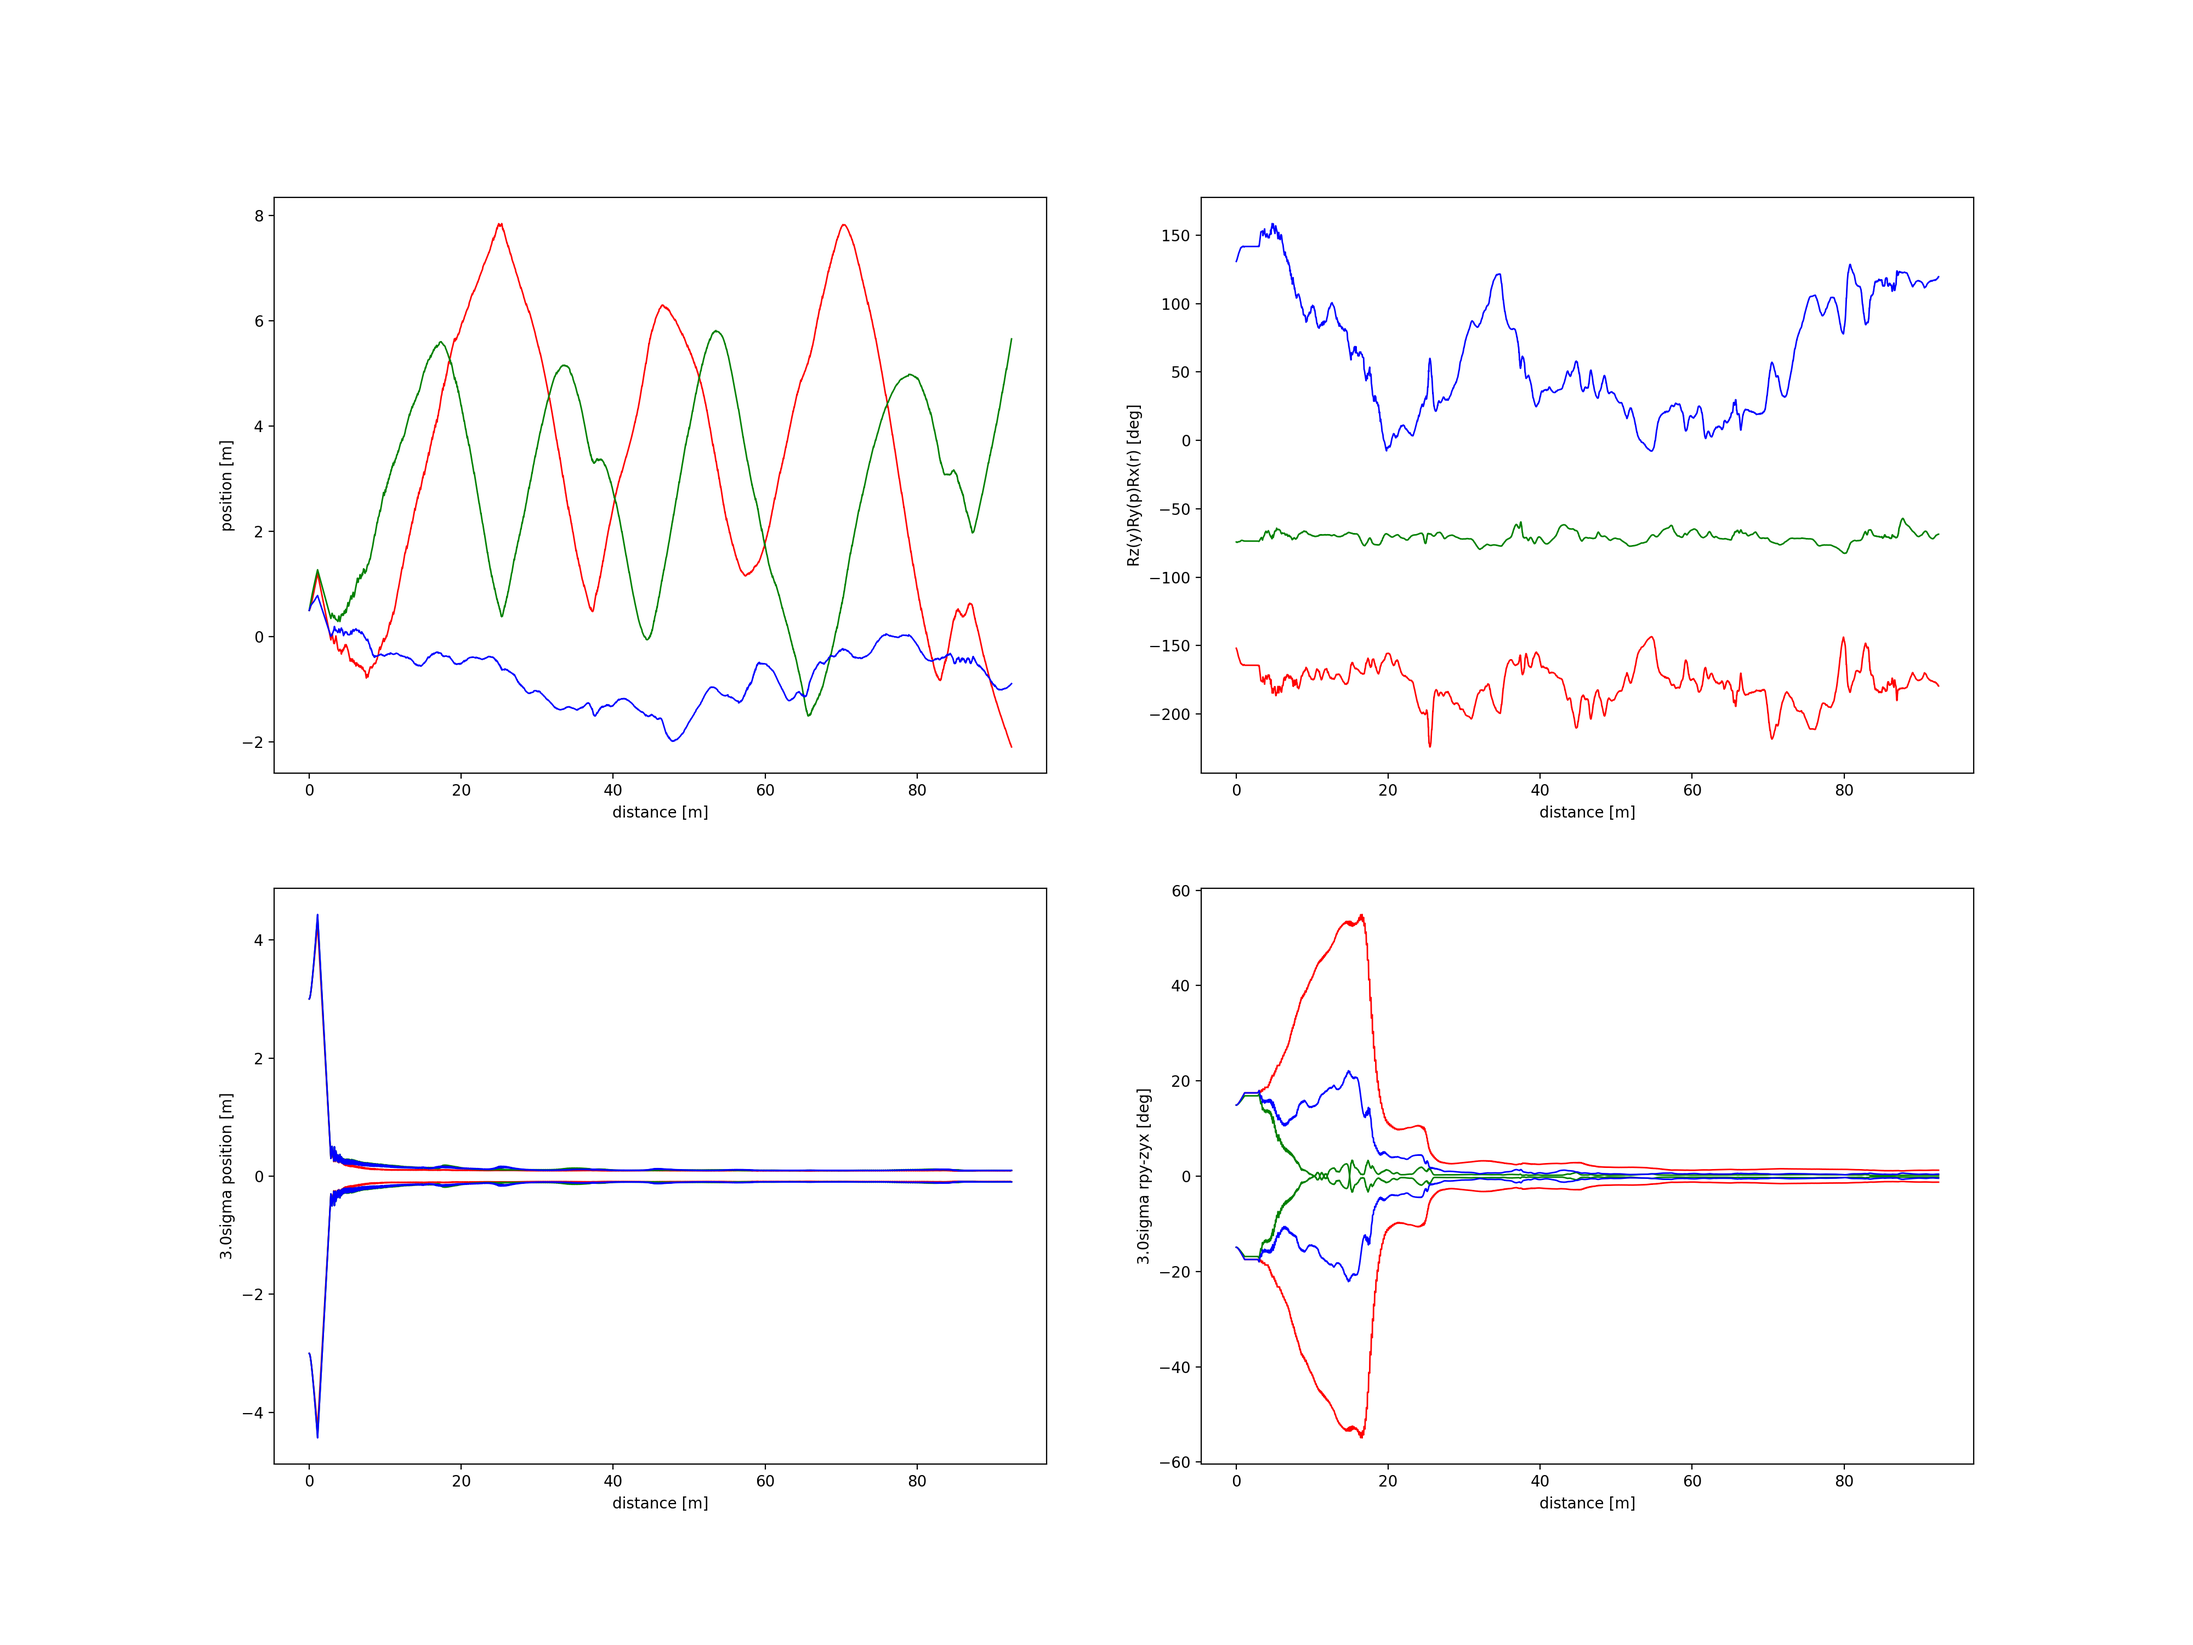
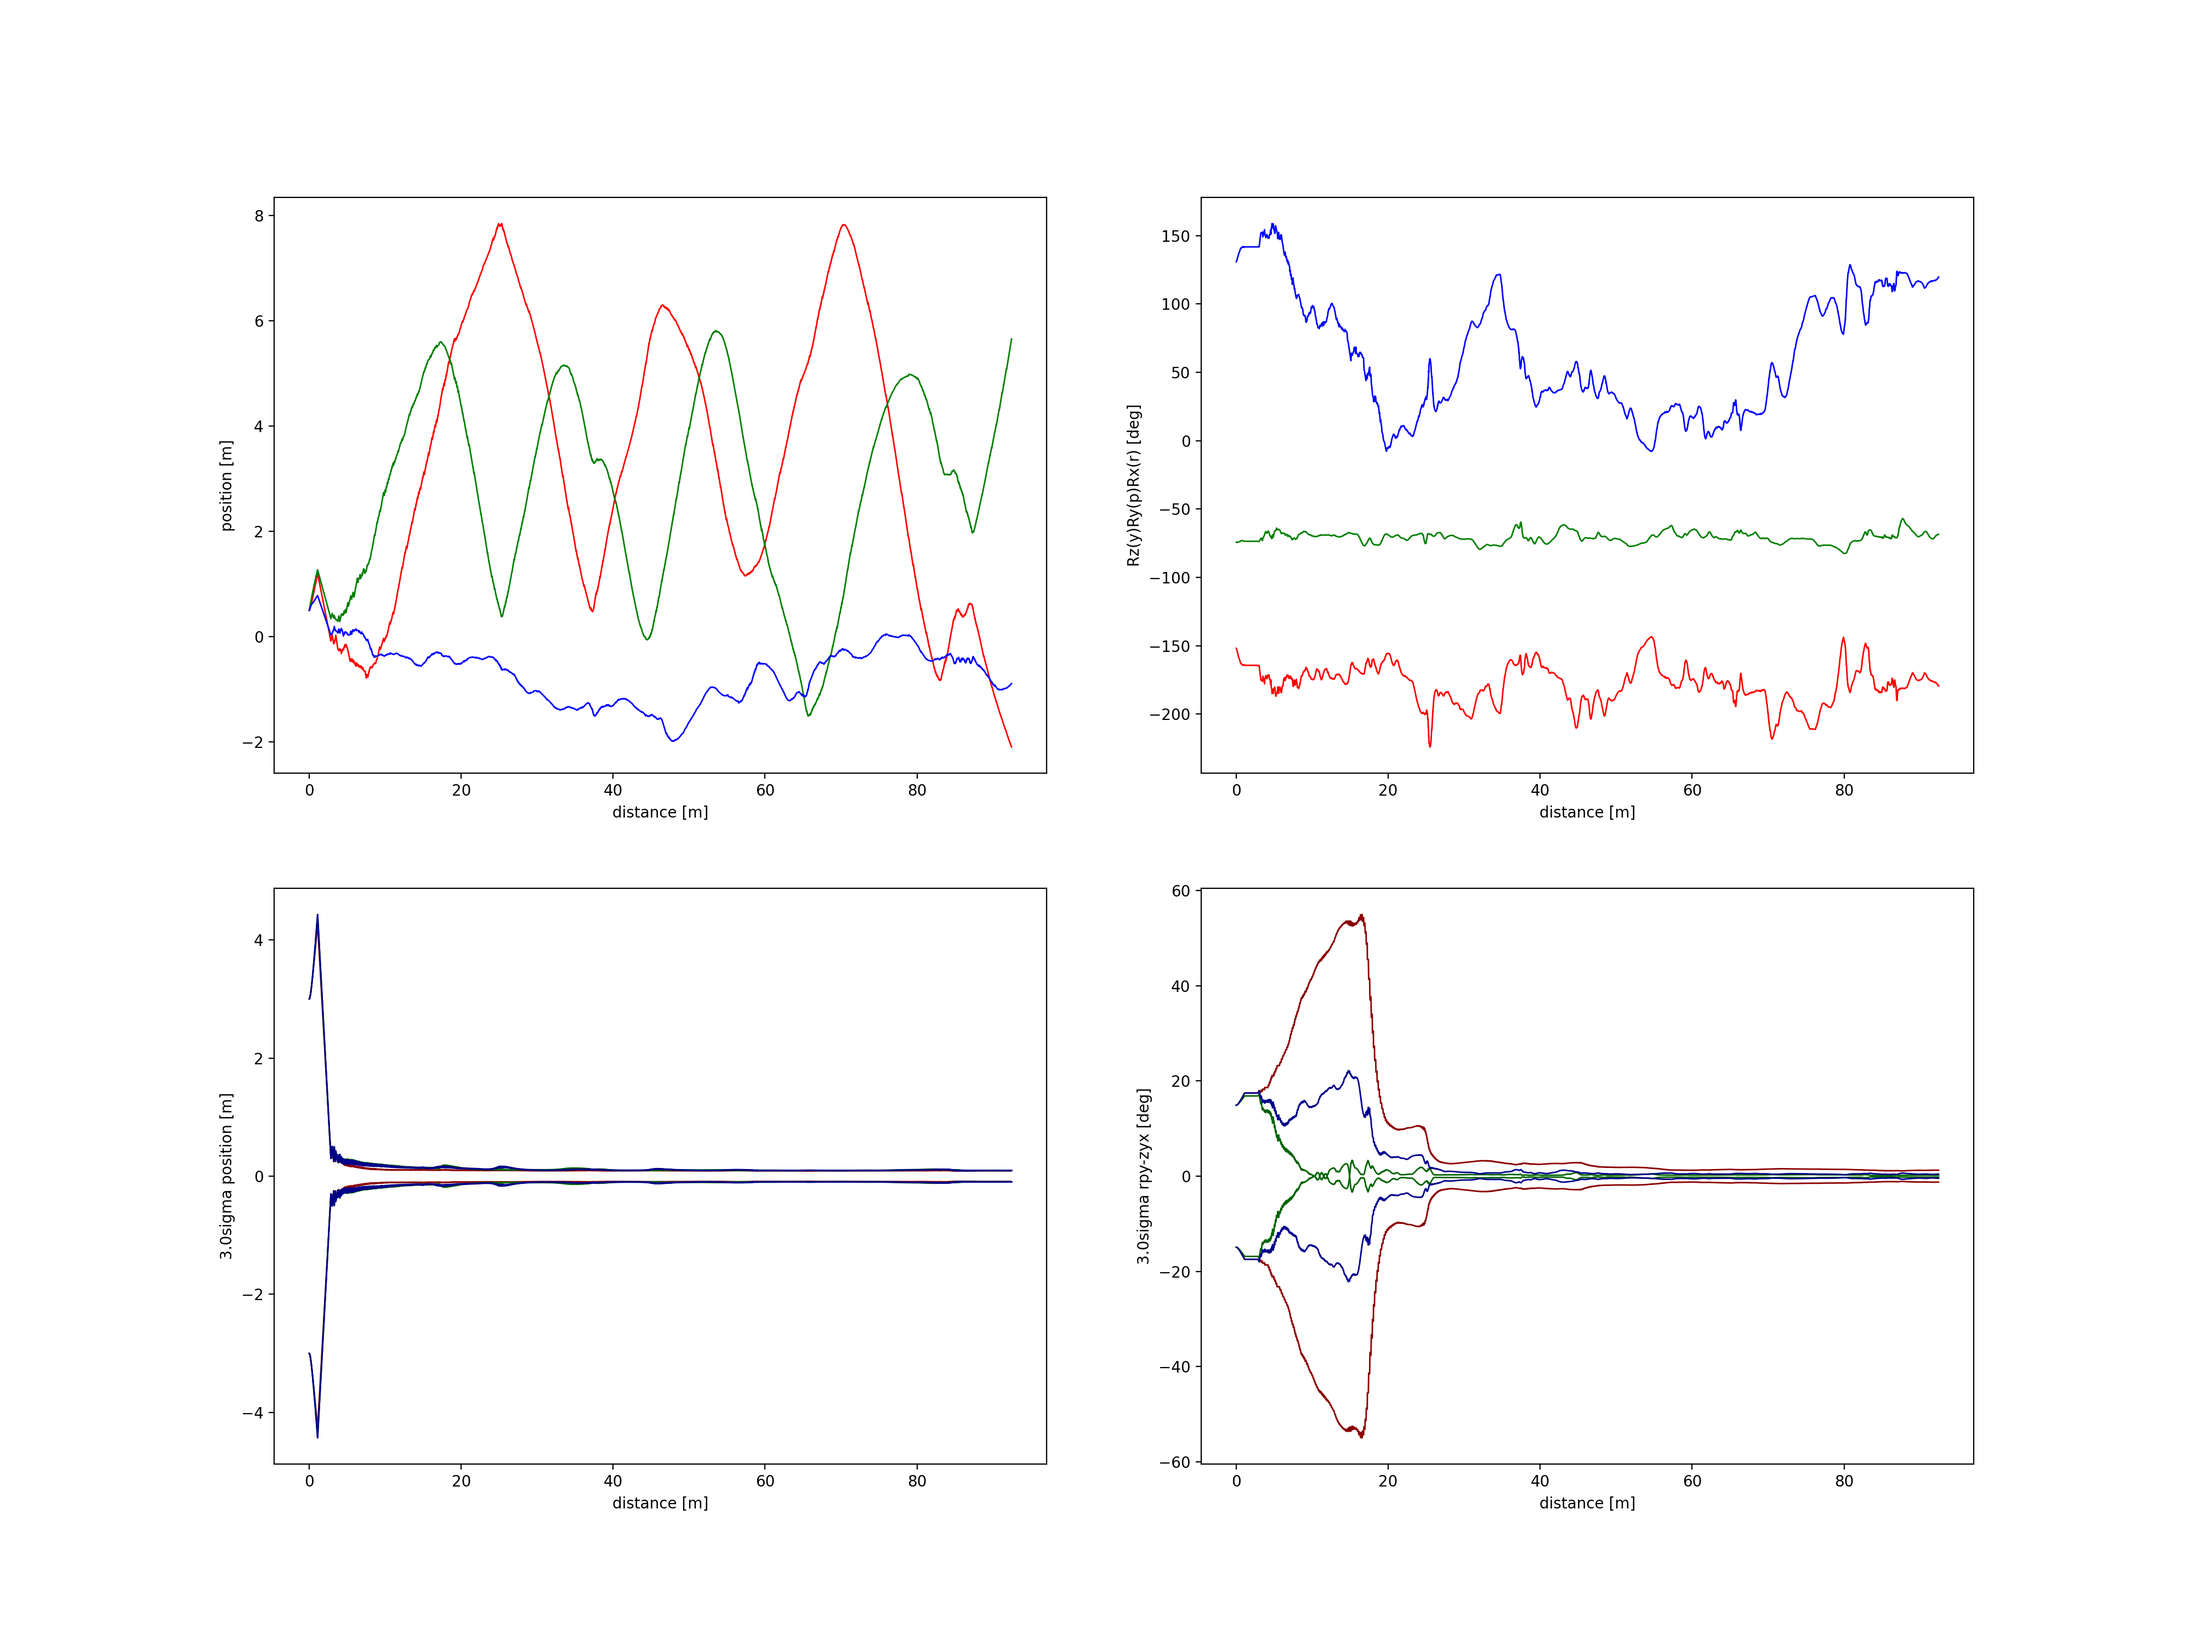
[FEAT] Error and covariance plots using dark color

diff --git a/cnspy_trajectory/TrajectoryError.py b/cnspy_trajectory/TrajectoryError.py
@@ -179,7 +179,7 @@ class TrajectoryError(Trajectory):
         if traj_gt:
             assert (isinstance(traj_gt, Trajectory))
             traj_gt.ax_plot_pos(ax=ax1, cfg=cfg, y_label_prefix='true ',
-                                colors=['k', 'k', 'k'], labels=['gt_x', 'gt_y', 'gt_z'],
+                                colors=['darkred', 'darkgreen', 'darkblue'], labels=['gt_x', 'gt_y', 'gt_z'],
                                 ls=PlotLineStyle(linestyle='-.', linewidth=0.5))
         traj_err.ax_plot_pos(ax=ax2, cfg=cfg)
 
@@ -189,7 +189,7 @@ class TrajectoryError(Trajectory):
         if angles:
             traj_est.ax_plot_rpy(ax=ax3, cfg=cfg)
             if traj_gt:
-                traj_gt.ax_plot_rpy(ax=ax3, cfg=cfg, colors=['k', 'k', 'k'],
+                traj_gt.ax_plot_rpy(ax=ax3, cfg=cfg, colors=['darkred', 'darkgreen', 'darkblue'],
                                     ls=PlotLineStyle(linestyle='-.', linewidth=0.5))
 
             if plot_rpy:

diff --git a/cnspy_trajectory/TrajectoryPlotter.py b/cnspy_trajectory/TrajectoryPlotter.py
@@ -65,8 +65,8 @@ class TrajectoryPlotter:
                                                                 cfg=cfg_, fig=fig,
                                                                 angles=True, plot_rpy=True,
                                                                 traj_gt=traj_gt)
-        traj_est.ax_plot_p_sigma(ax2, cfg=cfg_, colors=['k', 'k', 'k'], ls=PlotLineStyle(linestyle='-.', linewidth=0.5))
-        traj_est.ax_plot_rpy_sigma(ax4, cfg=cfg_, colors=['k', 'k', 'k'], ls=PlotLineStyle(linestyle='-.', linewidth=0.5))
+        traj_est.ax_plot_p_sigma(ax2, cfg=cfg_, colors=['darkred', 'darkgreen', 'darkblue'], ls=PlotLineStyle(linestyle='-.', linewidth=0.5))
+        traj_est.ax_plot_rpy_sigma(ax4, cfg=cfg_, colors=['darkred', 'darkgreen', 'darkblue'], ls=PlotLineStyle(linestyle='-.', linewidth=0.5))
 
         TrajectoryPlotConfig.show_save_figure(cfg, fig)
         return fig, ax1, ax2, ax3, ax4

diff --git a/cnspy_trajectory/TrajectoryEstimated.py b/cnspy_trajectory/TrajectoryEstimated.py
@@ -398,8 +398,8 @@ class TrajectoryEstimated(Trajectory):
             else:
                 self.ax_plot_q(ax=ax2, cfg=cfg)
 
-        self.ax_plot_p_sigma(ax3, cfg=cfg)
-        self.ax_plot_rpy_sigma(ax4, cfg=cfg)
+        self.ax_plot_p_sigma(ax3, cfg=cfg, colors=['darkred', 'darkgreen', 'darkblue'])
+        self.ax_plot_rpy_sigma(ax4, cfg=cfg, colors=['darkred', 'darkgreen', 'darkblue'])
 
         TrajectoryPlotConfig.show_save_figure(cfg, fig)
         return fig, ax1, ax2, ax3, ax4
